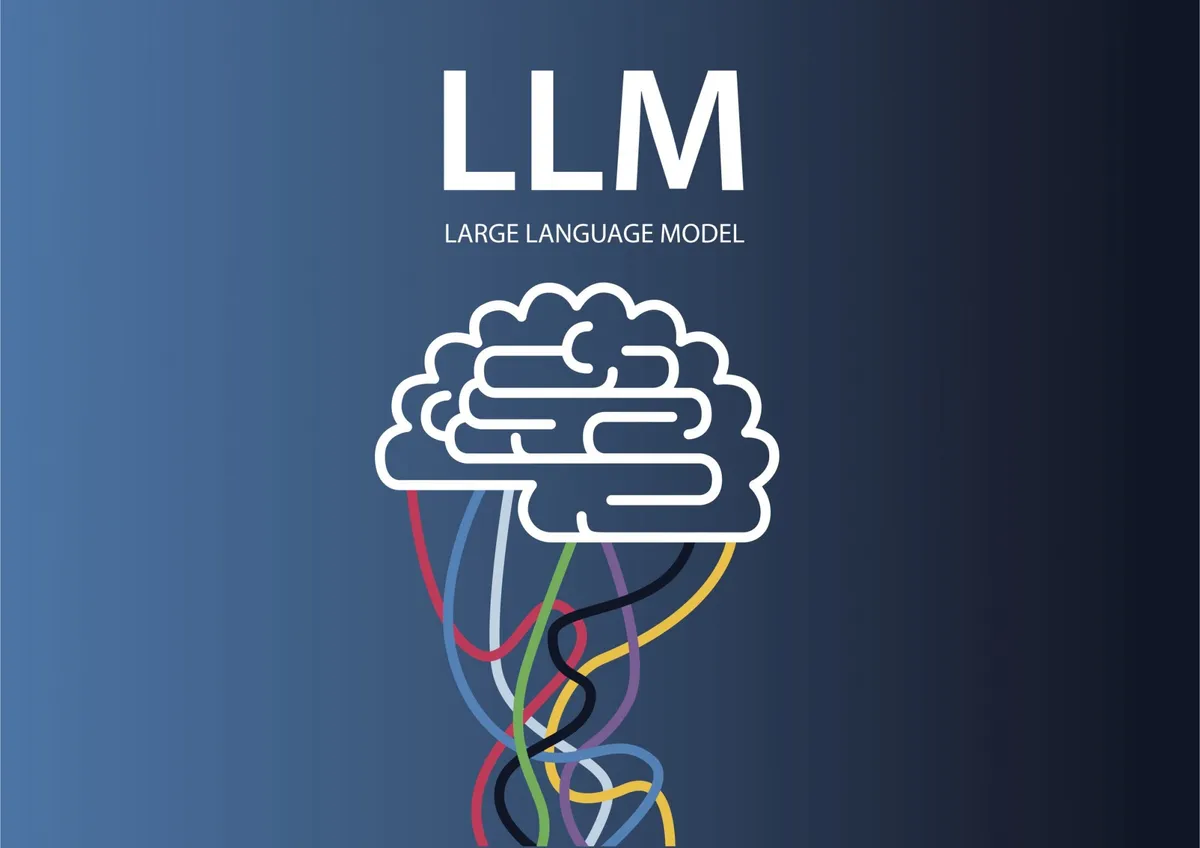
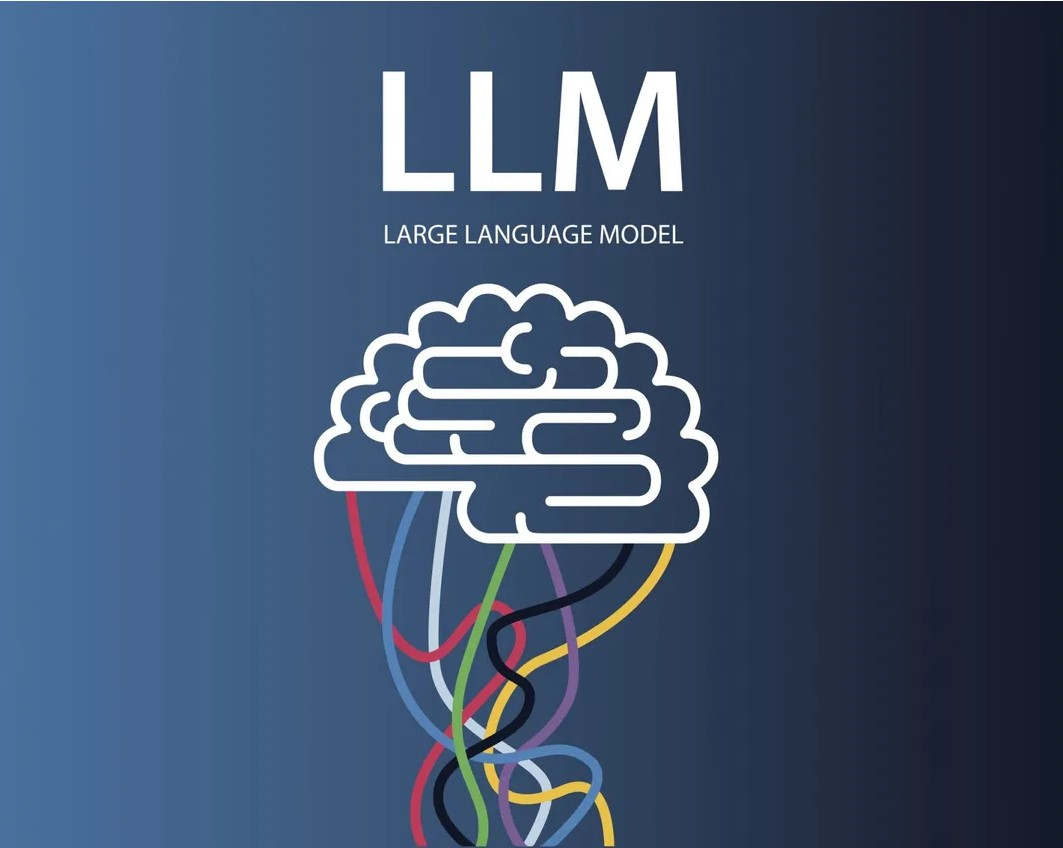
adjust hung yi's hw pic size

diff --git a/index.html b/index.html
@@ -418,7 +418,7 @@
                 <div class="project shadow-large" data-category="ml-dl">
                     <div class="project-image">
                         <div class="carousel" id="carousel5">
-                            <img src="images/LLM.jpg" style="width: 300px; height: 250px;" alt="">
+                            <img src="images/LLM.jpg" alt="">
                         </div>
                     </div>
                     <!-- End .project-image -->
